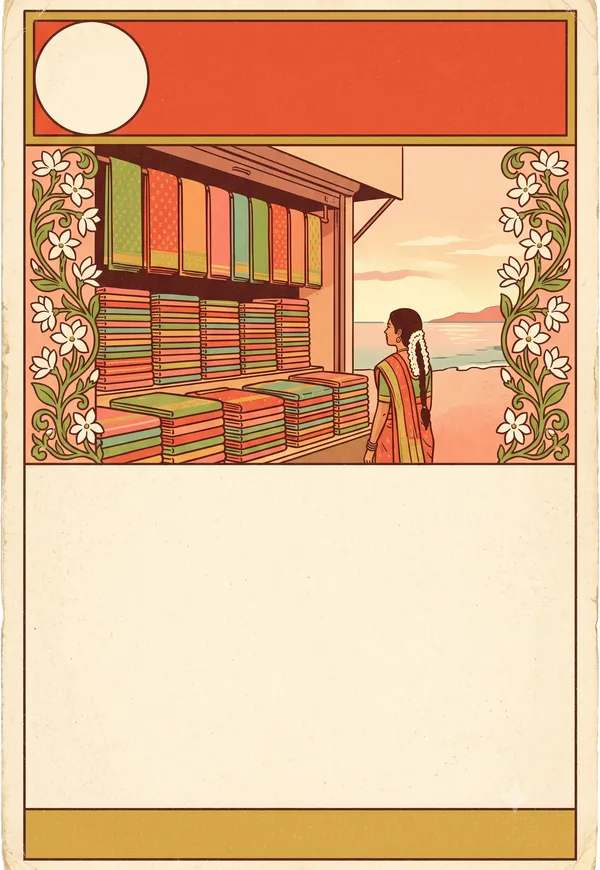
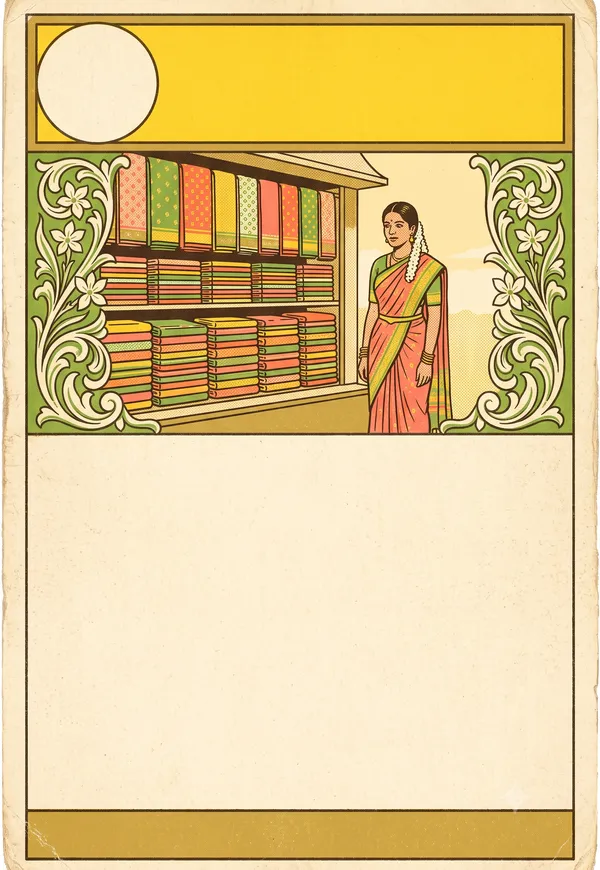
feat(mobile): palette v2 recolours — kashi, kolkata, chennai
8 of 9 recolour plates landed with the correct locked banner, so their
BANNER_HEX_OVERRIDES pins were removed (they now follow the set colour):
- kashi_1, kashi_2  -> kesari saffron  (title ink: dark)
- kolkata_0/1/2     -> royal violet    (title ink: cream + keyline)
- chennai_0/1/2     -> chrome yellow    (title ink: dark)

Each passed the property checklist: banner = locked set colour, cream circle
inside the band, no baked text, hero <=~52%, clear cream lower half, gold band.

titleInk: dropped those 8 override entries; test updated (stragglers now just
bangalore/newDelhi; added a check that the recoloured plates follow the set
colour). All green.

EXCLUDED — kashi_0: the dropped saffron recolour is non-compliant (washed-out
art + hero overrunning the 3-row ledger to ~65%), so per project law it was NOT
shipped — reverted to the committed plate and its override kept, pending a
compliant saffron regen.

diff --git a/apps/mobile/src/design/titleInk.ts b/apps/mobile/src/design/titleInk.ts
@@ -28,26 +28,19 @@ const BANNER_HEX_OVERRIDES: Record<string, string> = {
   // strip on top) before the banner=set-colour convention settled. Dark ink reads
   // on gold. Owner is deciding whether to regenerate these for palette consistency.
   prop_mumbai_0: INK.gold,
-  prop_kashi_0: INK.gold,
+  prop_kashi_0: INK.gold, // saffron recolour dropped was non-compliant (washed-out, deep hero); pending
   prop_jaipur_0: INK.gold,
   prop_jaipur_1: INK.gold,
 
-  // TEMPORARY palette-lock stragglers — the set colour changed (or the plate was
-  // painted off-colour), so we pin the ACTUAL painted banner until the regen lands.
-  // Remove each entry when its regenerated plate (with the locked banner) arrives.
-  prop_chennai_0: '#C6342B', // painted red; chennai is now chrome yellow
-  prop_chennai_1: '#C6342B',
-  prop_chennai_2: '#C6342B',
+  // TEMPORARY palette-lock stragglers — the set colour changed, so we pin the ACTUAL
+  // painted banner until the regen lands. Remove each entry when its regenerated plate
+  // (with the locked banner) arrives. kashi_1/2, kolkata_0/1/2 and chennai_0/1/2 landed
+  // (palette v2 recolours) and were removed here.
   prop_bangalore_0: '#E3A81C', // painted amber; bangalore is now azure blue
   prop_bangalore_1: '#E3A81C',
   prop_bangalore_2: '#E3A81C',
   prop_newDelhi_0: '#E6A90E', // painted yellow; newDelhi is leaf green
   prop_newDelhi_1: '#E6A90E',
-  prop_kashi_1: '#1F7A8C', // painted teal; kashi is now kesari saffron (palette v2)
-  prop_kashi_2: '#1F7A8C',
-  prop_kolkata_0: '#D96C2C', // painted vermillion; kolkata is now royal violet (palette v2)
-  prop_kolkata_1: '#D96C2C',
-  prop_kolkata_2: '#D96C2C',
 };
 
 export interface TitleInk {

diff --git a/apps/mobile/src/design/titleInk.test.ts b/apps/mobile/src/design/titleInk.test.ts
@@ -33,11 +33,17 @@ describe('titleInkForPlate', () => {
   });
 
   it('pins the actual banner for palette-lock stragglers (override)', () => {
-    expect(titleInkForPlate('prop_chennai_0', 'chennai').name).toBe(INK.cardCream); // still-red banner
     expect(titleInkForPlate('prop_bangalore_0', 'bangalore').name).toBe(INK.deepInk); // still-amber banner
     expect(titleInkForPlate('prop_newDelhi_0', 'newDelhi').name).toBe(INK.deepInk); // still-yellow banner
-    expect(titleInkForPlate('prop_kashi_1', 'kashi').name).toBe(INK.cardCream); // still-teal banner (v2)
-    expect(titleInkForPlate('prop_kolkata_0', 'kolkata').name).toBe(INK.deepInk); // still-vermillion banner (v2)
+  });
+
+  it('recoloured kashi/kolkata/chennai plates follow the set colour now (overrides removed)', () => {
+    expect(titleInkForPlate('prop_kashi_1', 'kashi').name).toBe(INK.deepInk); // kesari saffron -> dark
+    expect(titleInkForPlate('prop_kashi_2', 'kashi').name).toBe(INK.deepInk);
+    expect(titleInkForPlate('prop_kolkata_0', 'kolkata').name).toBe(INK.cardCream); // royal violet -> cream
+    expect(titleInkForPlate('prop_kolkata_2', 'kolkata').name).toBe(INK.cardCream);
+    expect(titleInkForPlate('prop_chennai_0', 'chennai').name).toBe(INK.deepInk); // chrome yellow -> dark
+    expect(titleInkForPlate('prop_chennai_2', 'chennai').name).toBe(INK.deepInk);
   });
 
   it('adds a keyline only when the ink is cream', () => {
